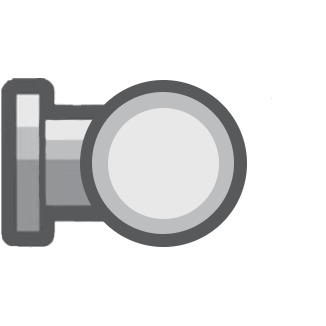
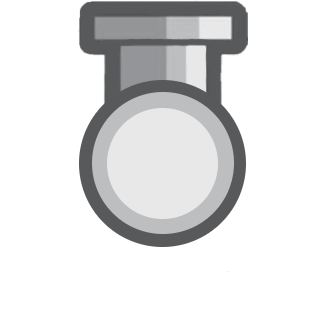
Add files via upload

diff --git a/pipe-game-main/Pipe.java b/pipe-game-main/Pipe.java
@@ -10,12 +10,12 @@ public class Pipe
     String shape;//T,L,I or O (sources and sinks)
     int xPosition;
     int yPosition;
-    String rotation; //N,E,S,W
+    int rotation; //in degrees (0,90,180,270)
     String type;//pipe, source or sink
     /**
      * Constructor for objects of class Pipe
      */
-    public Pipe(String shape, int x, int y, String rotation/*,String type*/)
+    public Pipe(String shape, int x, int y, int rotation/*,String type*/)
     {
         this.shape = shape;
         this.xPosition = x;
@@ -26,7 +26,7 @@ public class Pipe
     
     //# Getter methods
     public String getShape(){return(this.shape);}
-    public String getRotation(){return(this.rotation);}
+    public int getRotation(){return(this.rotation);}
     public int getX(){return(this.xPosition);}
     public int getY(){return(this.yPosition);}
     //public String getType(){return(this.type);}
@@ -35,6 +35,6 @@ public class Pipe
     public void setShape(String newShape){this.shape=newShape;}
     public void setX(int newX){this.xPosition=newX;}
     public void setY(int newY){this.yPosition=newY;}
-    public void setRotation(String newRotation){this.rotation=newRotation;}
+    public void setRotation(int newRotation){this.rotation=newRotation;}
     //public void setType(String newType){this.type=newType;}
 }

diff --git a/pipe-game-main/GUI.java b/pipe-game-main/GUI.java
@@ -158,8 +158,13 @@ public class GUI extends JFrame implements ActionListener,MouseListener
     }
 
     public void initialiseLevel1(){
+        level1[1][1] = "source"; 
+        level1[1][2] = "source"; 
+        level1[1][3] = "source"; 
+        level1[1][4] = "sink"; 
         level1[5][3] = "sink"; 
         level1[4][3] = "source"; 
+        level1[3][3] = "sink"; 
     }
     
     
@@ -182,7 +187,7 @@ public class GUI extends JFrame implements ActionListener,MouseListener
                 JButton button = new JButton();
                 button.addActionListener(this);
                 button.setActionCommand(x+","+y);
-                Pipe pipe = new Pipe("e",x,y,"n");
+                Pipe pipe = new Pipe("e",x,y,0);
                 
                 if(level1[x][y] == "sink"){
                     button.setIcon(scaledSink);

diff --git a/pipe-game-main/main.java b/pipe-game-main/main.java
@@ -7,7 +7,7 @@
  */
 public class main
 {
-    
+
     static GUI gui = new GUI ();
     /**
      * Constructor for objects of class main
@@ -16,4 +16,6 @@ public class main
     {
         
     }
+    
+    
 }
